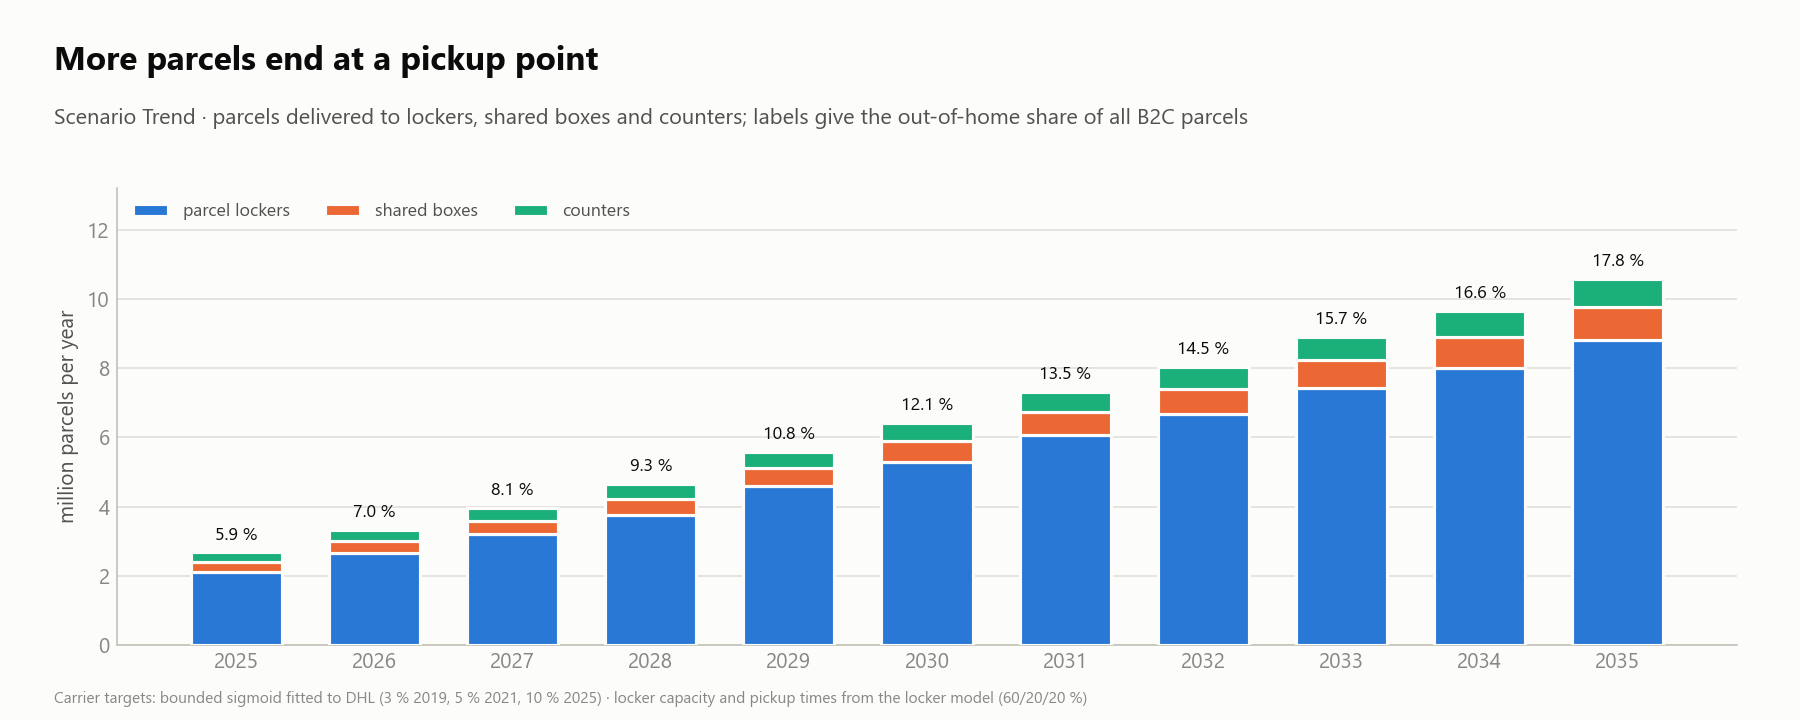
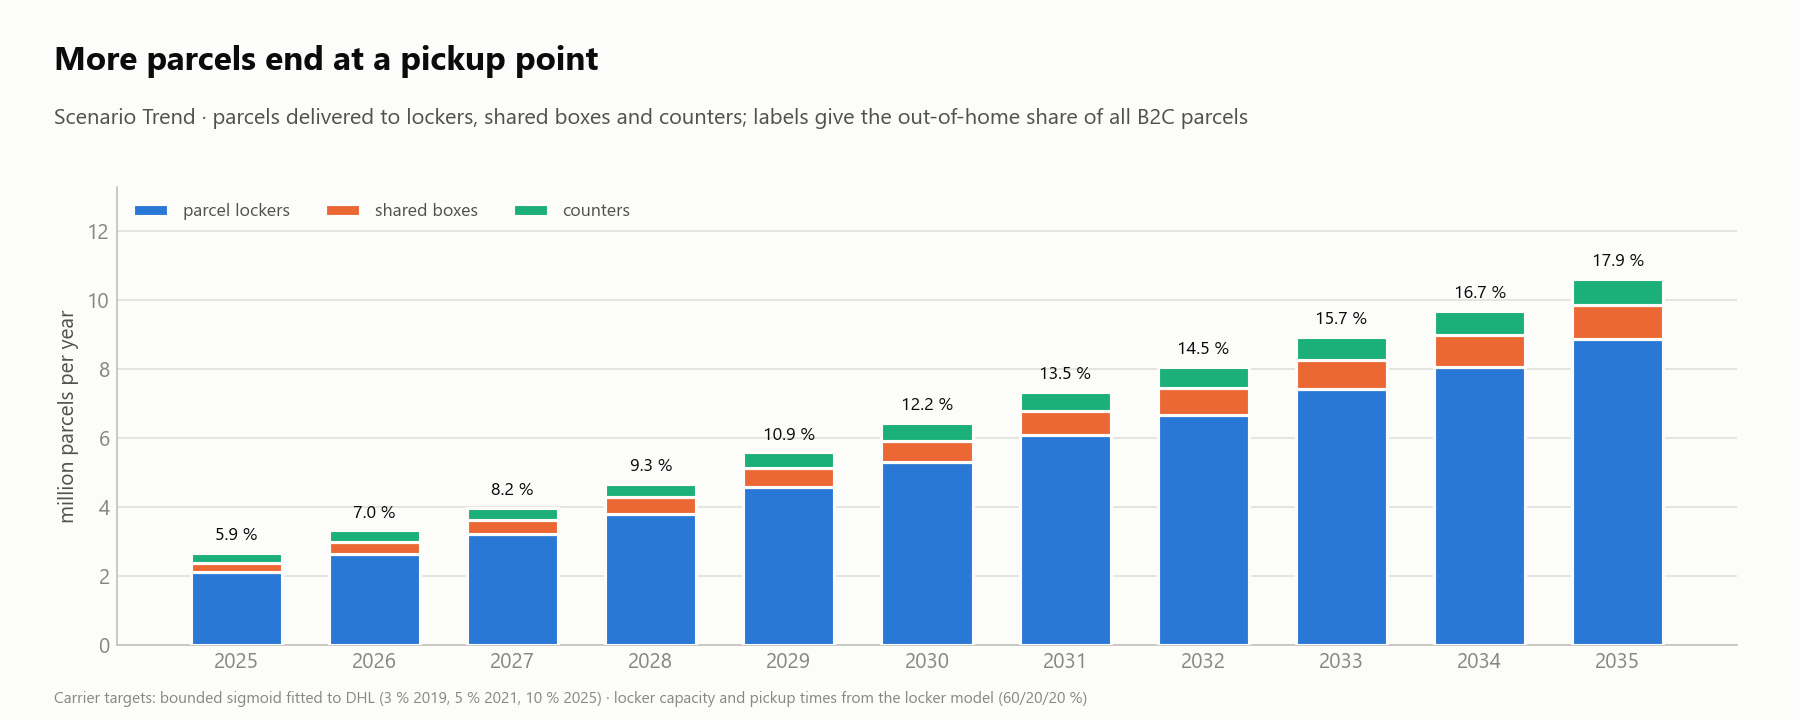
docs(readme): figures and results of the v10 decade runs
The five scenarios were rerun with the life table, the forecast's age
structure, the estimated cohort effect, the calibrated network elasticity and
the zero-street fill. The trend scenario now grows by +28 % in the city and
+27 % in the towns (v9: +25 / +29 %): land use moves about 440 parcels a day
from the towns to the city instead of 1,950 out of it, because the towns lose
many 45- to 64-year-olds with a high online propensity. The network reaches
675 / 649 / 749 pickup points in 2035 (trend, saturation, boom). The README
gets the new results table, the corrected land-use paragraph and method, the
new data sources (Eurostat ICT series, Destatis life table, Packstation
counts) and regenerated figures and dashboard screenshots; the hexagon
figure states the direction of the shift.

diff --git a/docs/images/demand/make_figures.py b/docs/images/demand/make_figures.py
@@ -227,11 +227,12 @@ def hexagon_change(payload: dict, region: Region, theme: dict, out: Path, mode: 
         total = {year: np.asarray(districts[year]["total"], float) for year in (first, last)}
         plain = np.asarray(districts[last]["plain"], float)
         city, umland = kinds == "city", kinds == "umland"
-        moved = plain[city].sum() - total[last][city].sum()
+        moved = plain[city].sum() - total[last][city].sum()         # > 0: land use moves parcels out of the city
+        direction = "from the city to the towns" if moved >= 0 else "from the towns to the city"
         rows = [(signed(growth - 1), "Region Hannover"),
                 (signed(total[last][city].sum() / total[first][city].sum() - 1), "City of Hannover"),
                 (signed(total[last][umland].sum() / total[first][umland].sum() - 1), "20 surrounding towns"),
-                (f"{moved:,.0f}", "parcels per day that land use\nshifts from the city to the towns")]
+                (f"{abs(moved):,.0f}", f"parcels per day that land use\nshifts {direction}")]
         key_figures(panel, y - .05, rows, theme, f"Parcels per delivery day {first} → {last}")
     source(fig, "HAGRID demand model · districts of the population forecast 2025–2035 · © OpenStreetMap contributors", theme)
     return save(fig, out, "hexagon-change", mode)

diff --git a/README.md b/README.md
@@ -22,7 +22,7 @@ Hannover, and three national volume scenarios span the range of plausible growth
 <p align="center">
   <picture>
     <source media="(prefers-color-scheme: dark)" srcset="docs/images/demand/hexagon-change-dark.png">
-    <img src="docs/images/demand/hexagon-change-light.png" width="100%" alt="Hexagon map of Region Hannover: growth of the expected parcels per delivery day from 2025 to 2035 against the regional growth. Demand grows faster than the region in many surrounding towns and in the development areas, and slower in the inner city.">
+    <img src="docs/images/demand/hexagon-change-light.png" width="100%" alt="Hexagon map of Region Hannover: growth of the expected parcels per delivery day from 2025 to 2035 against the regional growth. The city grows about as fast as the surrounding towns; demand grows faster in the development areas and the southern suburbs, and slower in the older northern towns and the inner core.">
   </picture>
 </p>
 <p align="center"><sub>Hannover demand model, trend scenario with land-use dynamics: where parcel demand grows faster (blue) or slower (red) than the region between 2025 and 2035. Details in <a href="#6-hannover-demand-model-20252035">section 6</a>.</sub></p>
@@ -54,7 +54,7 @@ Hannover, and three national volume scenarios span the range of plausible growth
 - **B2B/B2C segmentation**: a declining national B2B share (bounded sigmoid) and carrier-specific B2B quotas, met exactly every year
 - **Volume scenarios**: trend (linear), saturation (logistic) and boom (exponential) fits of the national series, chained at the 2025 level
 - **Temporal model**: shipping day × transit time with seasonality, public holidays (Lower Saxony), Prime Day, Black Week, Singles' Day and the Christmas peak
-- **Land-use dynamics**: population forecast per district, ageing with a cohort effect on online shopping, firm growth by industry, development areas and new firms
+- **Land-use dynamics**: population forecast per district, ageing with the life table and the forecast's age structure, a cohort effect on online shopping, firm growth by industry, development areas and new firms
 - **Out-of-home delivery**: parcel lockers, shared boxes and counters with compartments, pickup times and a demand-driven growing network
 - **Outputs**: annual store (Parquet), MATSim demand shapefiles for any day, standalone HTML dashboards for one year and for the decade
 
@@ -135,10 +135,19 @@ The tree shows tracked content only. Locally, `analysis/lausitz/` additionally h
   - Carrier-specific parcel demand data (LSP street volumes of 2021, the anchor of the demand model – not publicly available)
 
 - **Population Forecast Region Hannover (2026)**  
-  Landeshauptstadt und Region Hannover: *Bevölkerungsprognose 2025 bis 2035*, tables 7 and 8 (30 forecast districts of the city, 20 towns and municipalities). Drives the land-use dynamics.
+  Landeshauptstadt und Region Hannover: *Bevölkerungsprognose 2025 bis 2035*, tables 7 and 8 (30 forecast districts of the city, 20 towns and municipalities), table 5 (ten age groups of city and Umland) and table 11 (youth and old-age quotients per district). Drives the land-use dynamics and the age structure.
 
 - **Destatis ICT Survey (2025)**  
   Share of persons who shopped online in the last 12 months by age group; used as the online-shopping propensity by age.
+
+- **Eurostat ICT Survey (2008–2025)**  
+  Online purchases by age group in Germany (`isoc_ec_ibuy`, `isoc_ec_ib20`); the pseudo-cohort fit gives the cohort effect (cohorts keep the online habit of their younger self).
+
+- **Destatis Life Table 2021/2023**  
+  General life table for Germany (table 12621-01); death probabilities by age for the ageing of the age mix.
+
+- **Parcel Locker Counts (2020–2024)**  
+  Official DHL Packstation counts (press releases: 6,500 at the end of 2020, 11,000 at the end of 2022, 14,500 in December 2024); calibrate how the pickup network grows with the out-of-home demand.
 
 - **Region Hannover, *Trends und Fakten* (2025)**  
   Employment development 2014–2024; basis of the firm growth rates by industry.
@@ -299,8 +308,9 @@ flowchart TB
    quotas per carrier come from the notebook series.
 3. **Land-use dynamics.** Persons follow the official population forecast 2025–2035 in 49 forecast districts (city districts
    and surrounding towns). Two variants shift growth towards the city (infill) or the towns (suburban). The age mix ages by one
-   year per year, and the online-shopping propensity by age (Destatis 2025) keeps a cohort effect: a cohort keeps the
-   propensity of its younger self. Firms grow by industry, from +1.5 % a year (health) to −0.5 % (manufacturing). Eight
+   year per year with the Destatis life table and is fitted every year to the forecast's age groups (under 18, 18–64 and
+   65+ per district, ten groups for city and Umland). The online-shopping propensity by age (Destatis 2025) keeps a full
+   cohort effect, estimated from the Eurostat ICT series 2008–2025: a cohort keeps the propensity of its younger self. Firms grow by industry, from +1.5 % a year (health) to −0.5 % (manufacturing). Eight
    development areas (Kronsberg-Süd, Wasserstadt Limmer, Seelze-Süd and five in Langenhagen and Garbsen) and new firms in
    commercial areas become new sites with stops of their own. Land use redistributes the regional volume and never changes it.
 4. **Annual projection.** For every year, site, segment and carrier, the expected parcels follow from the reference shares,
@@ -340,9 +350,9 @@ in [`docs/demand/`](docs/demand/).
 | Parcels per delivery day | 192k | 245k | 232k | 284k |
 | Parcels per resident and year | 50.7 | 64.6 | 61.0 | 74.8 |
 | B2B share | 21.5 % | 20.1 % | 20.1 % | 20.1 % |
-| B2C parcels delivered to pickup points | 5.9 % | 17.8 % | 17.8 % | 17.8 % |
-| Pickup points (lockers, shared boxes, counters) | 259 | 589 | 569 | 643 |
-| Parcels on the busiest day | 420k | 621k | 587k | 720k |
+| B2C parcels delivered to pickup points | 5.9 % | 17.9 % | 17.9 % | 17.9 % |
+| Pickup points (lockers, shared boxes, counters) | 259 | 675 | 649 | 749 |
+| Parcels on the busiest day | 421k | 621k | 586k | 720k |
 
 <p align="center">
   <picture>
@@ -357,9 +367,10 @@ reaches 70 million parcels a year in 2033, saturation in 2035 and boom in 2030; 
 ### 6.4 Land use: where demand moves
 
 The hexagon map at the top shows the trend scenario against its regional growth of +28 %: the city of Hannover grows by
-+25 %, the 20 surrounding towns by +29 %. By 2035 land use shifts about 1,950 parcels a day from the city to the towns: the
-city receives 43.3 % of the demand (2025: 44.1 %), and the two variants move this share to 43.7 % (infill) or 42.9 %
-(suburban).
++28 %, the 20 surrounding towns by +27 %. By 2035 land use moves about 440 parcels a day from the towns to the city: the
+city's share of the demand rises from 44.1 % to about 44.3 %, and the two variants move it to 44.6 % (infill) or 43.9 %
+(suburban). The official age structure decides this: the towns lose many 45- to 64-year-olds with a high online
+propensity (−11.8 % by 2034), the city only −4.8 %, while both gain 65- to 74-year-olds who keep their online habit.
 
 <p align="center">
   <picture>
